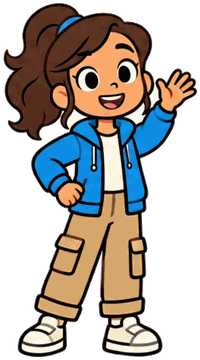
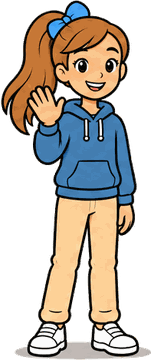
Tekenstijl klare lijn: nieuwe Fien en Jef, beekprent, huis en lamp
- Nieuw modelblad en nieuw knipscript (vijf houdingen per kind).
- Beekprent in klare lijn, volledig in beeld (1080 x 720).
- Huis en lamp: dunne zwarte omtrek en zachtere vlakken; opbouw K21 en
  raamkleuren ongewijzigd, dus de kleurmeting blijft gelden.
- Andere prenten in dezelfde stijl bewaard in docs/beelden/prenten.
- Stijlgids deel 7 en 8, beslissingen 12 en 12f bijgewerkt.

De indeling van de schermen is niet veranderd. De 104 tests slagen.

Claude-Session: https://claude.ai/code/session_01JDVV89dpKRthtLhhBfhYBM

diff --git a/src/spellen/lichtaan.ts b/src/spellen/lichtaan.ts
@@ -26,7 +26,7 @@ import { lichtAanRondes } from "../logica/reeksen";
 import { svg } from "../weergave/dom";
 
 const VERDIEPINGEN: Rij[] = ["zolder", "woonkamer", "kelder"];
-const BRUIN = "#4A2E1A";
+const LIJN = "#1F1F1F";
 const RAAM_X = [291, 351, 411];
 
 // De plaats van de ramen en het midden van het woord, per laag. Het dak staat
@@ -49,21 +49,21 @@ const VAK = { breedte: 150, hoogte: 40, rechts: 170 };
 function huisVorm(): SVGGElement {
   return svg(
     "g",
-    { stroke: BRUIN, "stroke-width": 3, "stroke-linejoin": "round" },
+    { stroke: LIJN, "stroke-width": 1.8, "stroke-linejoin": "round" },
     // de grond met de kelder erin, het gras en de struiken
-    svg("rect", { x: 200, y: 252, width: 340, height: 72, rx: 8, fill: "#D8BC94" }),
-    svg("rect", { x: 200, y: 244, width: 340, height: 12, rx: 6, fill: "#8FC454" }),
-    svg("circle", { cx: 220, cy: 241, r: 10, fill: "#6FAE3C" }),
-    svg("circle", { cx: 236, cy: 235, r: 14, fill: "#6FAE3C" }),
-    svg("circle", { cx: 520, cy: 238, r: 12, fill: "#6FAE3C" }),
+    svg("rect", { x: 200, y: 252, width: 340, height: 72, rx: 8, fill: "#D9C3A0" }),
+    svg("rect", { x: 200, y: 244, width: 340, height: 12, rx: 6, fill: "#A9BF6B" }),
+    svg("circle", { cx: 220, cy: 241, r: 10, fill: "#7FA04A" }),
+    svg("circle", { cx: 236, cy: 235, r: 14, fill: "#7FA04A" }),
+    svg("circle", { cx: 520, cy: 238, r: 12, fill: "#7FA04A" }),
     // de schoorsteen en het dak (leeg in les 0 tot 5)
-    svg("rect", { x: 440, y: 26, width: 22, height: 34, fill: "#E0703F" }),
-    svg("rect", { x: 436, y: 20, width: 30, height: 9, rx: 3, fill: "#E0703F" }),
-    svg("polygon", { points: "232,116 266,50 474,50 508,116", fill: "#D9503A" }),
+    svg("rect", { x: 440, y: 26, width: 22, height: 34, fill: "#C9824F" }),
+    svg("rect", { x: 436, y: 20, width: 30, height: 9, rx: 3, fill: "#C9824F" }),
+    svg("polygon", { points: "232,116 266,50 474,50 508,116", fill: "#D8693B" }),
     // de zolder, de woonkamer en de kelder
-    svg("rect", { x: 250, y: 116, width: 240, height: 66, fill: "#F4E4CB" }),
-    svg("rect", { x: 250, y: 182, width: 240, height: 66, fill: "#FFF3D6" }),
-    svg("rect", { x: 250, y: 248, width: 240, height: 66, fill: "#CFC7BA" }),
+    svg("rect", { x: 250, y: 116, width: 240, height: 66, fill: "#FBE8D3" }),
+    svg("rect", { x: 250, y: 182, width: 240, height: 66, fill: "#FBE8D3" }),
+    svg("rect", { x: 250, y: 248, width: 240, height: 66, fill: "#BDB8AE" }),
   );
 }
 
@@ -72,8 +72,8 @@ function raam(x: number, y: number): SVGGElement {
   return svg(
     "g",
     { class: "raam" },
-    svg("rect", { class: "raam-glas", x, y, width: 38, height: 38, rx: 5, stroke: BRUIN, "stroke-width": 2.5 }),
-    svg("path", { d: `M${x + 19} ${y}V${y + 38}M${x} ${y + 19}H${x + 38}`, stroke: BRUIN, "stroke-width": 2, fill: "none" }),
+    svg("rect", { class: "raam-glas", x, y, width: 38, height: 38, rx: 5, stroke: LIJN, "stroke-width": 1.8 }),
+    svg("path", { d: `M${x + 19} ${y}V${y + 38}M${x} ${y + 19}H${x + 38}`, stroke: LIJN, "stroke-width": 1.5, fill: "none" }),
   );
 }
 
@@ -84,7 +84,7 @@ function woord(rij: Rij): SVGGElement {
   return svg(
     "g",
     { class: "huis-woord" },
-    svg("rect", { x, y: midden - VAK.hoogte / 2, width: VAK.breedte, height: VAK.hoogte, rx: VAK.hoogte / 2, stroke: BRUIN, "stroke-width": 2 }),
+    svg("rect", { x, y: midden - VAK.hoogte / 2, width: VAK.breedte, height: VAK.hoogte, rx: VAK.hoogte / 2, stroke: LIJN, "stroke-width": 1.5 }),
     svg("text", { x: x + VAK.breedte / 2, y: midden, "text-anchor": "middle", "dominant-baseline": "central" }, t(`rij.${rij}` as TekstSleutel)),
   );
 }

diff --git a/src/weergave/lamp.ts b/src/weergave/lamp.ts
@@ -1,5 +1,5 @@
 // De lamp van "Duim op de spatiebalk" (les 0): een getekende gloeilamp, in
-// dezelfde stijl als het huis van "Licht aan" (omtrek #4A2E1A, afgeronde lijnen).
+// dezelfde stijl als het huis van "Licht aan" (omtrek #1F1F1F, afgeronde lijnen).
 // Ze staat van bij het begin (uit) in beeld en gaat zichtbaar aan.
 //   uit: donker glas (#3B4256), geen stralen
 //   aan: lichtgeel glas (#FFEE99) met stralen errond
@@ -8,11 +8,11 @@
 
 import { svg } from "./dom";
 
-const BRUIN = "#4A2E1A";
+const LIJN = "#1F1F1F";
 
 /** Acht korte stralen in een boog boven en naast het glas (alleen zichtbaar als de lamp aan is). */
 function stralen(): SVGGElement {
-  const g = svg("g", { class: "lamp-stralen", stroke: BRUIN, "stroke-width": 4, "stroke-linecap": "round" });
+  const g = svg("g", { class: "lamp-stralen", stroke: LIJN, "stroke-width": 2.5, "stroke-linecap": "round" });
   for (let hoek = -180; hoek <= 0; hoek += 30) {
     const r = (hoek * Math.PI) / 180;
     const punt = (afstand: number) => `${(70 + Math.cos(r) * afstand).toFixed(1)} ${(64 + Math.sin(r) * afstand).toFixed(1)}`;
@@ -29,7 +29,7 @@ export function lampTekening(klein = false): SVGSVGElement {
     stralen(),
     svg(
       "g",
-      { stroke: BRUIN, "stroke-width": 3, "stroke-linejoin": "round", "stroke-linecap": "round" },
+      { stroke: LIJN, "stroke-width": 1.8, "stroke-linejoin": "round", "stroke-linecap": "round" },
       // het glas: een ronde bol die naar onder smaller wordt
       svg("path", {
         class: "lamp-glas",
@@ -38,11 +38,11 @@ export function lampTekening(klein = false): SVGSVGElement {
       // een glans op het glas
       svg("path", { class: "lamp-glans", d: "M46 58c2-10 9-17 18-19", fill: "none", "stroke-width": 4 }),
       // het gloeidraadje
-      svg("path", { class: "lamp-draad", d: "M60 108V86l5-8 5 8 5-8 5 8v22", fill: "none", "stroke-width": 2.5 }),
+      svg("path", { class: "lamp-draad", d: "M60 108V86l5-8 5 8 5-8 5 8v22", fill: "none", "stroke-width": 1.6 }),
       // de fitting met twee ribbels en het contactpunt
       svg("rect", { x: 52, y: 108, width: 36, height: 24, rx: 5, fill: "#CFC7BA" }),
-      svg("path", { d: "M52 116h36M52 124h36", fill: "none", "stroke-width": 2.5 }),
-      svg("path", { d: "M62 132h16l-3 8h-10z", fill: BRUIN }),
+      svg("path", { d: "M52 116h36M52 124h36", fill: "none", "stroke-width": 1.6 }),
+      svg("path", { d: "M62 132h16l-3 8h-10z", fill: LIJN }),
     ),
   );
 }

diff --git a/src/stijl.css b/src/stijl.css
@@ -1749,7 +1749,7 @@ button {
 }
 
 .lamp-tekening.aan .lamp-draad {
-  stroke: #4a2e1a;
+  stroke: #1f1f1f;
 }
 
 .lamp-stralen {
@@ -1779,7 +1779,7 @@ button {
   font-size: clamp(20px, 13cqh, 46px);
   font-weight: 800;
   padding: 0.1em 0.9em;
-  border: 3px solid #4a2e1a;
+  border: 3px solid #1f1f1f;
   border-radius: 999px;
   background: #ffee99;
 }

diff --git a/scripts/knip-figuren.py b/scripts/knip-figuren.py
@@ -1,104 +1,85 @@
-"""Knipt Fien en Jef uit het modelblad en maakt de witte achtergrond doorzichtig.
+"""Knipt Fien en Jef uit het modelblad en maakt de achtergrond doorzichtig.
 
-Gebruik (vanuit de hoofdmap van het project, Python 3 met Pillow):
+Gebruik (vanuit de hoofdmap van het project, Python 3 met Pillow, numpy en scipy):
     python3 scripts/knip-figuren.py
 
-Invoer:  docs/beelden/fien-en-jef-modelblad.png
+Invoer:  docs/beelden/fien-en-jef-modelblad.png (klare lijn, 1536 x 1024)
 Uitvoer: src/beelden/<naam>.png
 
-De vakken hieronder zijn ruwe zones op het modelblad (links, boven, rechts, onder).
-Binnen elke zone wordt de figuur precies afgebakend. Alleen het wit dat aan de
-rand van de uitsnede raakt wordt doorzichtig, zodat het wit van ogen en tanden blijft.
+Het modelblad toont twee rijen van vijf houdingen: boven Fien, onder Jef.
+De vakken hieronder zijn ruwe zones (links, boven, rechts, onder). Binnen elke zone:
+- de achtergrond die aan de rand raakt, wordt doorzichtig;
+- ingesloten stukken achtergrond groter dan 350 pixels ook (tussen arm en lijf);
+  kleinere stukken blijven, zo blijft het wit van ogen en tanden;
+- losse spikkels kleiner dan 40 pixels verdwijnen;
+- de figuur wordt precies afgebakend en verkleind tot hoogstens 360 hoog.
+
+"trots" is dezelfde prent als "duim": het modelblad heeft geen aparte houding.
 """
 
-from collections import deque
 from pathlib import Path
 
+import numpy as np
 from PIL import Image
+from scipy import ndimage as ndi
 
 BRON = Path("docs/beelden/fien-en-jef-modelblad.png")
 DOEL = Path("src/beelden")
 MAX_HOOGTE = 360
+ACHTERGROND = np.array([252, 248, 242])
+SPELING = 11
 
 ZONES = {
-    "fien-zwaai": (445, 20, 725, 525),
-    "jef-zwaai": (1170, 15, 1445, 525),
-    "fien-blij": (20, 545, 310, 805),
-    "fien-trots": (340, 545, 670, 805),
-    "fien-nadenkend": (20, 810, 310, 1086),
-    "fien-aanmoedigend": (335, 810, 670, 1086),
-    "jef-blij": (785, 540, 1010, 805),
-    "jef-trots": (1075, 540, 1365, 805),
-    "jef-nadenkend": (765, 810, 1010, 1086),
-    "jef-aanmoedigend": (1065, 810, 1375, 1086),
+    "fien-zwaai": (445, 15, 668, 512),
+    "fien-blij": (668, 15, 866, 512),
+    "fien-duim": (866, 15, 1070, 512),
+    "fien-nadenkend": (1070, 15, 1276, 512),
+    "fien-aanmoedigend": (1276, 15, 1510, 512),
+    "jef-zwaai": (445, 512, 672, 1020),
+    "jef-blij": (672, 512, 872, 1020),
+    "jef-duim": (872, 512, 1084, 1020),
+    "jef-nadenkend": (1084, 512, 1284, 1020),
+    "jef-aanmoedigend": (1284, 512, 1520, 1020),
 }
 
 
-def is_achtergrond(p):
-    r, g, b = p[:3]
-    return min(r, g, b) >= 236 and max(r, g, b) - min(r, g, b) <= 12
-
-
-def afbakenen(im):
-    """Kleinste kader rond alles wat geen achtergrond is."""
-    b, h = im.size
-    px = im.load()
-    xs, ys = [], []
-    for y in range(h):
-        for x in range(b):
-            if not is_achtergrond(px[x, y]):
-                xs.append(x)
-                ys.append(y)
-    marge = 4
-    return (max(min(xs) - marge, 0), max(min(ys) - marge, 0), min(max(xs) + marge + 1, b), min(max(ys) + marge + 1, h))
-
-
-def maak_doorzichtig(im):
-    """Vul vanaf de randen: wit dat met de rand verbonden is, wordt doorzichtig."""
-    im = im.convert("RGBA")
-    b, h = im.size
-    px = im.load()
-    gezien = bytearray(b * h)
-    rij = deque()
-    for x in range(b):
-        rij.extend([(x, 0), (x, h - 1)])
-    for y in range(h):
-        rij.extend([(0, y), (b - 1, y)])
-    while rij:
-        x, y = rij.popleft()
-        if x < 0 or y < 0 or x >= b or y >= h or gezien[y * b + x]:
-            continue
-        gezien[y * b + x] = 1
-        if not is_achtergrond(px[x, y]):
-            continue
-        px[x, y] = (255, 255, 255, 0)
-        rij.extend([(x + 1, y), (x - 1, y), (x, y + 1), (x, y - 1)])
-    # Zachte rand: lichte pixels naast doorzichtige pixels half doorzichtig maken.
-    kopie = im.copy().load()
-    for y in range(1, h - 1):
-        for x in range(1, b - 1):
-            r, g, bl, a = kopie[x, y]
-            if a == 0:
-                continue
-            buren = (kopie[x + 1, y][3], kopie[x - 1, y][3], kopie[x, y + 1][3], kopie[x, y - 1][3])
-            if 0 in buren and min(r, g, bl) > 200:
-                px[x, y] = (r, g, bl, 255 - min(r, g, bl))
-    return im
+def knip(blad, zone):
+    x0, y0, x1, y1 = zone
+    stuk = blad[y0:y1, x0:x1]
+    achtergrond = np.abs(stuk - ACHTERGROND).max(axis=2) <= SPELING
+    labels, aantal = ndi.label(achtergrond)
+    rand = set(labels[0]) | set(labels[-1]) | set(labels[:, 0]) | set(labels[:, -1])
+    rand.discard(0)
+    groottes = ndi.sum(achtergrond, labels, range(1, aantal + 1))
+    weg = np.isin(labels, list(rand))
+    for nr, grootte in enumerate(groottes, 1):
+        if nr not in rand and grootte > 350:
+            weg |= labels == nr
+    zichtbaar = ~weg
+    labels2, aantal2 = ndi.label(zichtbaar)
+    groottes2 = ndi.sum(zichtbaar, labels2, range(1, aantal2 + 1))
+    for nr, grootte in enumerate(groottes2, 1):
+        if grootte < 40:
+            zichtbaar[labels2 == nr] = False
+    ys, xs = np.where(zichtbaar)
+    kader = (xs.min(), ys.min(), xs.max() + 1, ys.max() + 1)
+    rgba = np.dstack([stuk, np.where(zichtbaar, 255, 0)]).astype("uint8")
+    prent = Image.fromarray(rgba).crop(kader)
+    if prent.height > MAX_HOOGTE:
+        prent = prent.resize((round(prent.width * MAX_HOOGTE / prent.height), MAX_HOOGTE), Image.LANCZOS)
+    # 256 kleuren volstaan voor vlakke prenten en maken de bestanden veel kleiner.
+    return prent.quantize(256, method=Image.Quantize.FASTOCTREE)
 
 
 def main():
-    blad = Image.open(BRON).convert("RGB")
+    blad = np.array(Image.open(BRON).convert("RGB")).astype(int)
     DOEL.mkdir(parents=True, exist_ok=True)
     for naam, zone in ZONES.items():
-        stuk = blad.crop(zone)
-        stuk = stuk.crop(afbakenen(stuk))
-        stuk = maak_doorzichtig(stuk)
-        if stuk.height > MAX_HOOGTE:
-            stuk = stuk.resize((round(stuk.width * MAX_HOOGTE / stuk.height), MAX_HOOGTE), Image.LANCZOS)
-        # 256 kleuren volstaan voor tekenfilmprenten en maken de bestanden veel kleiner.
-        stuk = stuk.quantize(256, method=Image.Quantize.FASTOCTREE)
-        stuk.save(DOEL / f"{naam}.png", optimize=True)
-        print(naam, stuk.size)
+        prent = knip(blad, zone)
+        prent.save(DOEL / f"{naam}.png", optimize=True)
+        print(naam, prent.size)
+        if naam.endswith("-duim"):
+            prent.save(DOEL / f"{naam[:-5]}-trots.png", optimize=True)
 
 
 if __name__ == "__main__":

diff --git a/docs/beslissingen.md b/docs/beslissingen.md
@@ -152,9 +152,9 @@ De volledige uitleg staat in projectdocument 12 ("Metingen per toets") van het c
 
 ## 12. Fien en Jef (K16)
 
-- **Bron:** het goedgekeurde modelblad `docs/beelden/fien-en-jef-modelblad.png` (gemaakt met ChatGPT, vrij te gebruiken in dit project).
-- **Uitknippen:** `scripts/knip-figuren.py` knipt de zwaaiende Fien en Jef en vier gezichtjes (blij, trots, nadenkend, aanmoedigend) uit, maakt de witte achtergrond doorzichtig en bewaart ze in `src/beelden/`. De twee prenten "duim omhoog" (`fien-duim.png`, `jef-duim.png`) zijn uitsneden die Nick aanleverde; ze zijn op dezelfde manier verkleind tot 256 kleuren.
-- **Bestandsgrootte:** alle prenten van Fien en Jef samen ongeveer 190 kB. Belangrijk als een hele klas tegelijk laadt.
+- **Bron:** het modelblad in klare lijn `docs/beelden/fien-en-jef-modelblad.png` (gemaakt met ChatGPT, vrij te gebruiken in dit project). Zie 12f voor de keuze van de stijl.
+- **Uitknippen:** `scripts/knip-figuren.py` knipt per kind vijf houdingen uit (zwaai, blij, duim, nadenkend, aanmoedigend), maakt de achtergrond doorzichtig en bewaart ze in `src/beelden/`. "trots" is dezelfde prent als "duim".
+- **Bestandsgrootte:** alle prenten van Fien en Jef samen ongeveer 155 kB. Belangrijk als een hele klas tegelijk laadt.
 - **Ze staan stil.** Fien en Jef bewegen nooit. Ze veranderen alleen van houding bij de start en op het einde, niet bij elke toets of fout:
   - zwaaien (start): startscherm, intro van elke les, "verdergaan waar je was", einde van "Licht aan";
   - duim omhoog: naast de oefenregels (met een korte tip), einde van "Over de beek", afsluiter als het doel gehaald is;
@@ -167,7 +167,7 @@ De volledige uitleg staat in projectdocument 12 ("Metingen per toets") van het c
   - Sundararajan en Adesope (2020), Keep it coherent: a meta-analysis of the seductive details effect, Educational Psychology Review 32.
   - Wong en Adesope (2021), Meta-analysis of emotional designs in multimedia learning, Educational Psychology Review 33: meer motivatie bij stilstaand dan bij geanimeerd materiaal.
 - **Tegen:** dat onderzoek gaat over leren uit tekst en uitleg, niet over typen. Kinderen kunnen de spelletjes minder leuk vinden zonder beweging: te toetsen in de klastest.
-- **Beekprent:** "Over de beek" gebruikt de prent op maat van Nick (Fien en Jef links, het huisje rechts, een brede beek zonder stenen), verkleind tot 1100 x 440 en bewaard als WebP (38 kB). Alleen lucht bovenaan en gras onderaan zijn weggesneden; de figuren en het huisje blijven volledig in beeld. De app toont de prent gecentreerd met afgeronde hoeken en tekent de rij van 12 stenen zelf, eronder.
+- **Beekprent:** "Over de beek" gebruikt de beekprent in klare lijn (Fien en Jef links vooraan, het huis aan de overkant, een brede beek zonder stenen), verkleind tot 1080 x 720 en bewaard als WebP (89 kB). De prent is niet bijgesneden: de figuren nemen de halve hoogte in, dus bijsnijden zou voeten of dak kosten. Ze is daardoor minder breed dan de vroegere strook van 1100 x 440. De app toont de prent gecentreerd met afgeronde hoeken en tekent de rij van 12 stenen zelf, eronder.
 - **Spelbeschrijvingen:** de beschrijvingen in de lesinhoud (les 1 tot 5) zijn aangepast aan K16. De repository (`src/content/nl-BE`) is vanaf nu de bron voor de lesinhoud.
 - **Een uitdrukking toevoegen:** zet een zone in het script, voer het uit (`python3 scripts/knip-figuren.py`) en voeg de naam toe aan `Uitdrukking` in `src/weergave/figuren.ts`.
 
@@ -232,9 +232,18 @@ De volledige uitleg staat in projectdocument 12 ("Metingen per toets") van het c
 ## 12e. De grote letter, de lamp, de voortgang en het huis
 
 - **De grote letter op haar kaart (zoek de toets).** De kaart heeft een vaste maat en elke letter staat op dezelfde basislijn, met ruimte boven voor stokletters, hoofdletters en accenten en onder voor staartletters (g, j, p, q, y). Het woord "spatie" staat kleiner in dezelfde kaart. Nagekeken met een schermafbeelding van alle 26 kleine letters, de hoofdletters, de leestekens en de accentletters. Steunt op: vaststelling van Nick (de j stond te laag en raakte de rand).
-- **De lamp van "Duim op de spatiebalk" (les 0).** Een getekende gloeilamp die van bij het begin (uit) in beeld staat en zichtbaar aangaat: uit donker `#3B4256`, aan lichtgeel `#FFEE99` met stralen errond, omtrek `#4A2E1A` zoals het huis. De stralen zorgen dat je het ook zonder kleur ziet. In de opdracht staat een klein beeldje van dezelfde lamp naast het woord "lamp". De opdracht is nu: "Leg je duimen op de spatiebalk. Gaat de lamp aan? Druk!" De kaart "spatie" die er vroeger bij verscheen, is weg. Waarom: de oude zin verwees naar een huis dat niet in beeld stond, en Nicks dochter van 11 vroeg "welk lampje?". Een doel, een voorwerp, een signaal. Steunt op: eigen keuze, te toetsen door een kind de oefening zonder uitleg te laten doen.
+- **De lamp van "Duim op de spatiebalk" (les 0).** Een getekende gloeilamp die van bij het begin (uit) in beeld staat en zichtbaar aangaat: uit donker `#3B4256`, aan lichtgeel `#FFEE99` met stralen errond, omtrek `#1F1F1F` zoals het huis. De stralen zorgen dat je het ook zonder kleur ziet. In de opdracht staat een klein beeldje van dezelfde lamp naast het woord "lamp". De opdracht is nu: "Leg je duimen op de spatiebalk. Gaat de lamp aan? Druk!" De kaart "spatie" die er vroeger bij verscheen, is weg. Waarom: de oude zin verwees naar een huis dat niet in beeld stond, en Nicks dochter van 11 vroeg "welk lampje?". Een doel, een voorwerp, een signaal. Steunt op: eigen keuze, te toetsen door een kind de oefening zonder uitleg te laten doen.
 - **De voortgang van een oefening (K20).** Op elk oefenscherm op dezelfde plek: een dunne, grijze balk langs de onderrand van de witte kaart, met rechts klein de teller ("10 van 12"). Geen vingerkleur. Bij "Over de beek" tonen de stenen zelf hoe ver je bent; daar staan alleen drie bolletjes voor de beken. Waarom: de opdracht en de prent zijn waar het kind moet kijken; de voortgang bekijkt het maar af en toe en hoort dus aan de rand. Steunt op: eigen keuze (K20 in projectdocument 14).
 - **Het huis van "Licht aan in het huis" (K21).** Een vectortekening in de code, volgens de referentie van Nick. Vier even hoge lagen van 66: het dak, de zolder, de woonkamer en de kelder (onder de grondlijn). Het dak is in de cursus de cijferrij, een vierde rij boven de zolder (projectdocumenten 08, 10 en 18): de zolder zit dus niet in het dak. In les 0 tot 5 blijft het dak leeg; de plaats voor een vierde rij ramen en het woord "dak" is al voorzien in de code. Negen gelijke ramen, omdat de rijen op het toetsenbord ook gelijk zijn. De woorden staan in een eigen kolom links, nooit over de tekening. De vakjes zijn groter dan in de referentie (150 x 40 in plaats van 100 x 28, letters van 24 in plaats van 17), omdat de woorden op een kleine Chromebook anders maar 11 tot 13 pixels groot waren; door Nick goedgekeurd. Er knippert niets (K16): het vakje van het woord dat aan de beurt is, wordt donker en blijft stil staan. Fien en Jef staan naast het huis, niet in een raam; de slotzin is daarom "Alle lichten branden! Goed gedaan!" (vroeger: "Fien en Jef zwaaien uit het raam"). Steunt op: eigen keuze. De raamkleuren (aan `#FFEE99`, uit `#3B4256`) steunen op onderzoek (methode): zie de stijlgids, deel 8.
+
+## 12f. Tekenstijl: klare lijn
+
+- **Keuze:** alle prenten en de voorwerpen die de app zelf tekent, staan in klare lijn (stripstijl): een dunne zwarte omtrek, vlakke en zachtere kleuren, levendige ogen. De indeling van de schermen, het toetsenbord, de handen, de vingerkleuren en de achtergrond zijn niet veranderd.
+- **Wat is omgezet:** de twaalf prenten van Fien en Jef (nieuw modelblad), de beekprent, het huis van "Licht aan" en de lamp. In het huis en de lamp: omtrek van bruin `#4A2E1A` (3 dik) naar zwart `#1F1F1F` (1,8 dik) en zachtere vlakken (dak `#D8693B`, muur `#FBE8D3`, kelder `#BDB8AE`, grond `#D9C3A0`, struiken `#A9BF6B`). De opbouw van het huis (K21, vier lagen, negen ramen) is dezelfde.
+- **Raamkleuren ongewijzigd:** licht aan `#FFEE99` en licht uit `#3B4256` blijven. De meting tegen de vingerkleuren (stijlgids deel 8) geldt dus nog.
+- **Waarom:** Nick vond de eerste stijl te kleuterachtig voor kinderen van 10 tot 12 jaar. Hij koos uit drie uitgewerkte stijlen de klare lijn (27 november 2026, projectdocument 17, W7). Een stijl die ook bij Belgische strips aansluit, helpt bovendien om anders te zijn dan Typ10.
+- **Waarop steunt dit? Eigen keuze.** Er is geen onderzoek dat zegt welke tekenstijl beter werkt bij deze leeftijd. Te toetsen: vragen aan de kinderen in de klastest.
+- **Tegen:** de prenten van Fien en Jef zijn wat smaller en rustiger; ze vallen minder op naast de opdracht. De beekprent toont het huis kleiner dan vroeger.
 
 ## 13. Privacy en veiligheid
 

diff --git a/docs/stijlgids.md b/docs/stijlgids.md
@@ -123,13 +123,17 @@ Waarop steunt dit? **Eigen keuze** (startscherm per deel, een kaart "Verder waar
 
 ## 7. Prenten
 
-- Fien en Jef komen uit het modelblad (`docs/beelden/`). De losse prenten staan in `src/beelden/`.
+- **Tekenstijl: klare lijn (stripstijl).** Dunne, even dikke zwarte omtrek, vlakke kleuren zonder verloop, zachte kleuren, een creme achtergrond. Ogen met wit, een iris met een lichtpuntje en wenkbrauwen, zodat de figuren levendig kijken.
+- Fien en Jef komen uit het modelblad (`docs/beelden/fien-en-jef-modelblad.png`): twee rijen van vijf houdingen. De losse prenten staan in `src/beelden/` en worden geknipt met `scripts/knip-figuren.py`.
+- De andere prenten in dezelfde stijl (welkomprent van het dorp, houdingskaart, de spelprenten voor beek, overgooien, dijk, slee en egel) staan in `docs/beelden/prenten/`. Alleen de beekprent wordt nu in de app gebruikt.
 - Een spelprent blijft volledig in beeld: liever een kleinere, gecentreerde prent met afgeronde hoeken dan een bijgesneden prent.
-- "Over de beek" gebruikt de beekprent op maat (Fien en Jef links, het huisje rechts, een brede beek zonder stenen). De stenen tekent de app zelf, onder de prent.
+- "Over de beek" gebruikt de beekprent (Fien en Jef links vooraan, het huis aan de overkant, een brede beek zonder stenen). De stenen tekent de app zelf, onder de prent.
+
+Waarop steunt dit? **Eigen keuze** van Nick (27 november 2026, projectdocument 17, W7): de eerste stijl met dikke bruine lijnen oogde te kleuterachtig voor het vijfde en zesde leerjaar. Te toetsen in de klastest.
 
 ## 8. Getekende voorwerpen: het huis en de lamp
 
-Voorwerpen die de app zelf tekent, hebben dezelfde tekenstijl als de prenten van Fien en Jef: een bruine omtrek (`#4A2E1A`, 3 dik in de tekening van het huis), afgeronde hoeken en vlakke kleuren.
+Voorwerpen die de app zelf tekent, hebben dezelfde tekenstijl als de prenten van Fien en Jef: een dunne zwarte omtrek (`#1F1F1F`, 1,8 dik in de tekening van het huis), afgeronde hoeken en vlakke, zachte kleuren.
 
 ### Het huis van "Licht aan in het huis" (K21)
 
